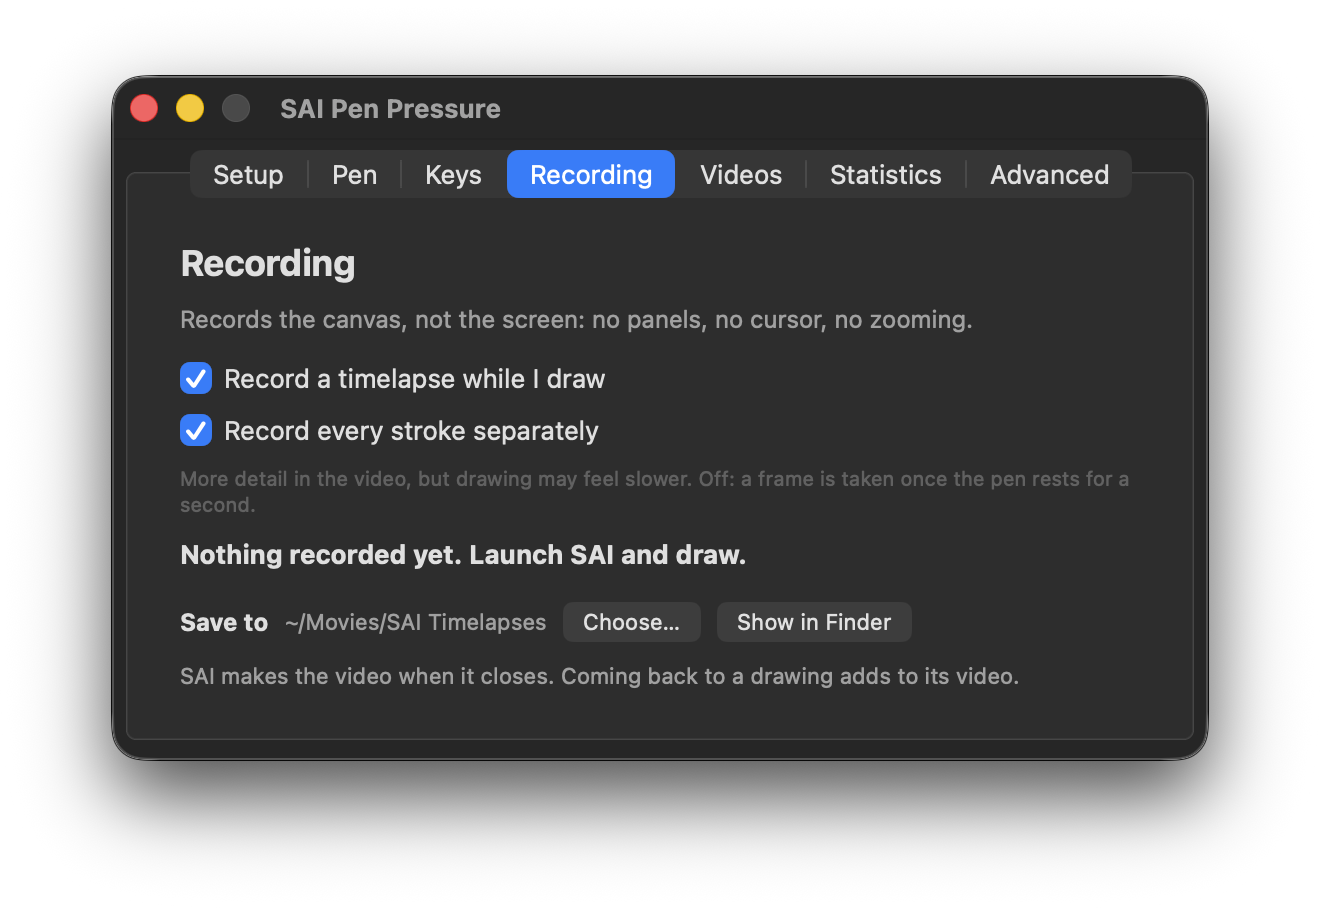
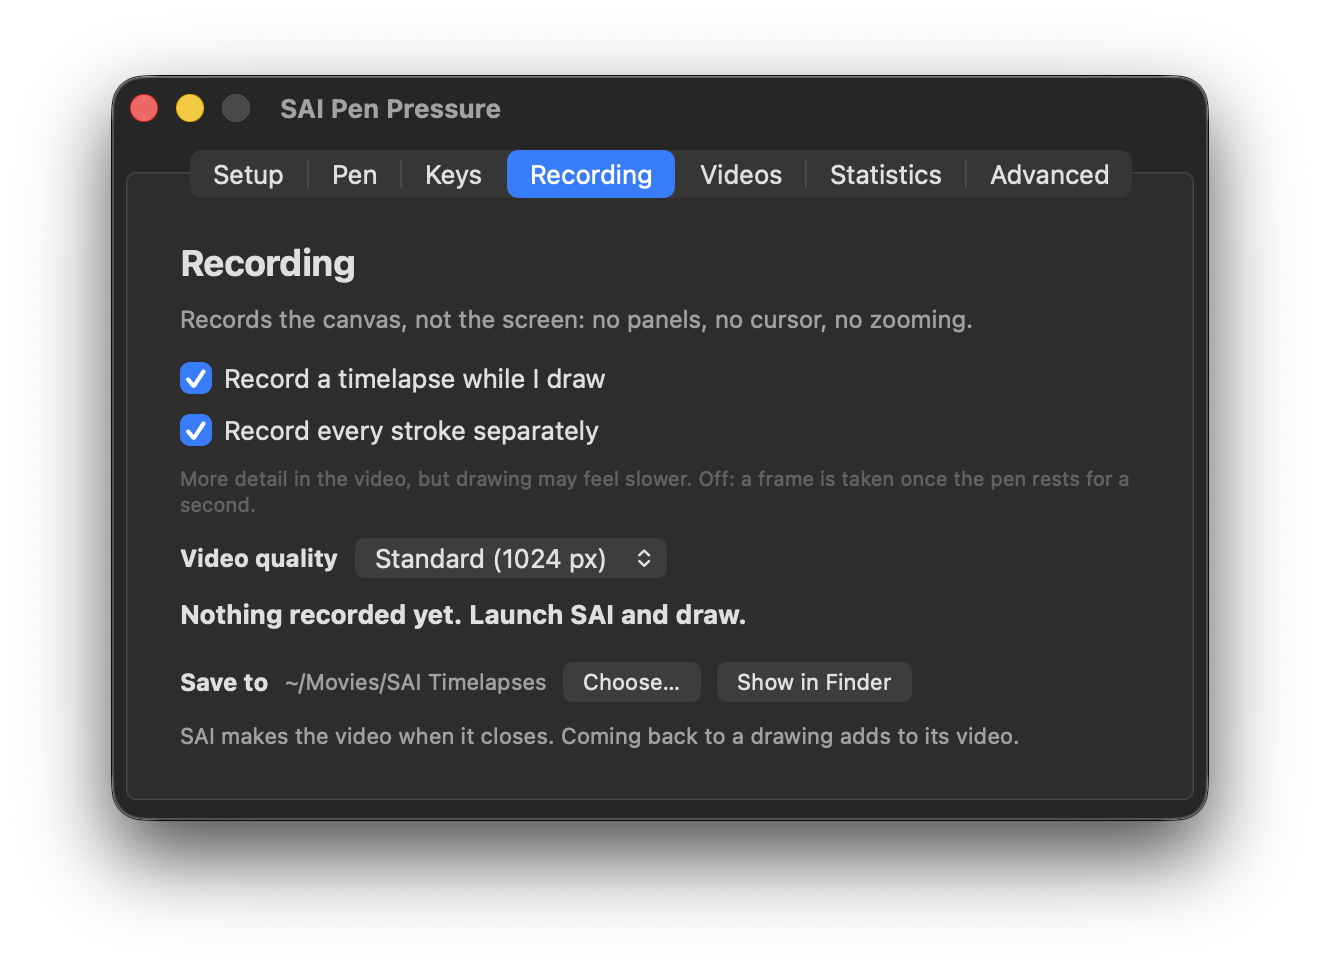
README: Recording tab screenshot with Video quality

diff --git a/README.md b/README.md
@@ -320,7 +320,7 @@ SAI reads these when it starts, so a change applies the next time SAI opens.
 
 ### Recording
 
-<p align="center"><a href="docs/assets/screenshots/recording.png"><img src="docs/assets/screenshots/recording.png" alt="The Recording tab: Record a timelapse while I draw, Record every stroke separately, and the folder videos are saved to." width="70%"></a></p>
+<p align="center"><a href="docs/assets/screenshots/recording.png"><img src="docs/assets/screenshots/recording.png" alt="The Recording tab: Record a timelapse while I draw, Record every stroke separately, Video quality set to Standard (1024 px), and the folder videos are saved to." width="70%"></a></p>
 
 The canvas timelapse. Tick **Record a timelapse while I draw**, choose where videos are saved, and
 draw. The video is made when SAI closes. **Record every stroke separately** gives more detail, at
